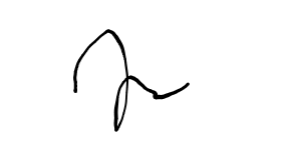
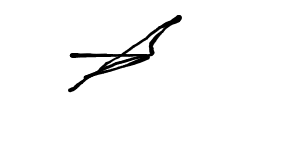
Ajustes Pead Corr palntilla
Ajustes Pead Corr palntilla

Changed region(s): [[0.2165, 0.08, 0.6495, 0.88]]

diff --git a/MantenimientosPTM/Scripts/produccion_peadliso_refactor.js b/MantenimientosPTM/Scripts/produccion_peadliso_refactor.js
@@ -270,9 +270,9 @@ class GestionProduccionPeadLiso extends GestionProduccionBase {
                 id: item.ID_REGISTRO || Date.now(),
 
                 ID_REGISTRO: item.ID_REGISTRO,
-                OTMC: item.OTMC, // 🔥 NUEVO
-                OTMP: item.OTMP,// 🔥 NUEVO
-                ID_PRODUCTO_TERMINADO: item.ID_PRODUCTO_TERMINADO,// 🔥 NUEVO
+                OTMC: item.OTMC,
+                OTMP: item.OTMP,
+                ID_PRODUCTO_TERMINADO: item.ID_PRODUCTO_TERMINADO,
 
                 Mes: item.MES,
 
@@ -325,17 +325,33 @@ class GestionProduccionPeadLiso extends GestionProduccionBase {
 
                 TiempoDisponible: item.TIEMPO_DISPONIBLE,
 
-                TiempoProductivo: item.TIEMPO_PRODUCTIVO
+                TiempoProductivo: item.TIEMPO_PRODUCTIVO,
+
+                // ✅ NUEVO: Identificar origen de datos de BD
+                ...(item.OTMC && item.OTMC.toString().trim() !== '' ? {
+                    _origen: 'CORRECTIVO',
+                    _marcador: '🔧',
+                    _rowClass: 'row-correctivo'
+                } : item.OTMP && item.OTMP.toString().trim() !== '' ? {
+                    _origen: 'PREVENTIVO',
+                    _marcador: '🛠',
+                    _rowClass: 'row-preventivo'
+                } : item.ID_PRODUCTO_TERMINADO && item.ID_PRODUCTO_TERMINADO.toString().trim() !== '' ? {
+                    _origen: 'PRODUCTO_TERMINADO',
+                    _marcador: '📦',
+                    _rowClass: 'row-producto-terminado'
+                } : {})
 
             }));
 
             this.gridApi.setRowData(datosFormateados);
-            return true; // 🔥 sí había datos
+            this.inicializarTooltipsGrid(); // 🔥 AGREGAR ESTA LÍNEA
+            return true;
 
         }
 
         this.gridApi.setRowData([]);
-        return false; // 🔥 NUEVO — ya no llama agregarFilaTotales aquí
+        return false;
     }
 
     // ========================================
@@ -415,7 +431,12 @@ class GestionProduccionPeadLiso extends GestionProduccionBase {
             nuevaFila.id = this.generarIdTemporal();
             nuevaFila.OTMC = item.NumeroOrden;
             nuevaFila.Fecha = this.parsearFechaCorrectivo(item.FechaCreacion);
-            nuevaFila.TiempoMuertoCorrectivos = parseFloat(item.DuracionHrs) || 0; // 🔥 campo distinto a PVC
+            nuevaFila.TiempoMuertoCorrectivos = parseFloat(item.DuracionHrs) || 0;
+
+            // ✅ NUEVO: Marcar como correctivo
+            nuevaFila._origen = 'CORRECTIVO';
+            nuevaFila._marcador = '🔧';
+            nuevaFila._rowClass = 'row-correctivo';
 
             const lineaEncontrada = this.listaLineas.find(
                 l => String(l.value) === String(item.IdLineaProduccion)
@@ -439,8 +460,7 @@ class GestionProduccionPeadLiso extends GestionProduccionBase {
         });
 
         this.gridApi.applyTransaction({ add: filasNuevas });
-        this.inicializarTooltipsGrid(); // 🔥 AGREGAR ESTA LÍNEA
-
+        this.inicializarTooltipsGrid();
 
         if (lineasNoEncontradas.length > 0) {
             AlertManager.mostrar(
@@ -535,6 +555,7 @@ class GestionProduccionPeadLiso extends GestionProduccionBase {
                         cellClass: 'celda-gris',
                         pinned: 'left',
                         // ✅ NUEVO: Renderer para mostrar emoji + mes + tooltip + punto pulsante
+                        // En el cellRenderer del campo 'Mes' en inicializarGrid() de PEAD Liso
                         cellRenderer: params => {
                             if (!params.value || params.data?.id === 'TOTALES') {
                                 return params.value || '';
@@ -544,7 +565,6 @@ class GestionProduccionPeadLiso extends GestionProduccionBase {
                             const origen = params.data?._origen;
                             const idRegistro = params.data?.ID_REGISTRO;
 
-                            // 🔥 Mapa de tooltips según origen
                             const tooltipTexts = {
                                 'CORRECTIVO': 'Mantenimiento Correctivo',
                                 'PREVENTIVO': 'Mantenimiento Preventivo',
@@ -556,14 +576,14 @@ class GestionProduccionPeadLiso extends GestionProduccionBase {
                                 ? `data-bs-toggle="tooltip" data-bs-title="${tooltipText}" title="${tooltipText}"`
                                 : '';
 
-                            // 🔥 NUEVO: Mostrar punto pulsante si es un registro nuevo (sin ID_REGISTRO)
                             const puntoPulsante = !idRegistro && (origen === 'CORRECTIVO' || origen === 'PREVENTIVO' || origen === 'PRODUCTO_TERMINADO')
                                 ? `<span class="punto-pulso punto-pulso-margin-left"></span>`
                                 : '';
 
+                            // 🔥 IGUAL QUE PVC: sin emoji, devuelve solo el valor plano
                             return emoji
                                 ? `<div style="display: flex; align-items: center; gap: 4px;"><span style="font-size: 16px; cursor: help;" ${tooltipAttr}>${emoji}</span><span>${params.value}</span>${puntoPulsante}</div>`
-                                : `<div style="display: flex; align-items: center; gap: 4px;"><span>${params.value}</span>${puntoPulsante}</div>`;
+                                : params.value;
                         }
                     },
                     {
@@ -872,13 +892,21 @@ class GestionProduccionPeadLiso extends GestionProduccionBase {
                 sortable: true,
                 filter: true,
                 resizable: true,
+                // CORRECTO
                 editable: (params) => {
+                    if (params.data?.id === 'TOTALES') return false;
 
-                    if (params.data?.id === 'TOTALES') {
-                        return false;
-                    }
+                    const readonlyFields = [
+                        'PesoMinimo',
+                        'PesoEstandar',
+                        'PorcentajeSobrepeso',
+                        'PorcentajeTotalScrap',
+                        'TiempoDisponible',
+                        'TiempoProductivo',
+                        'Mes'
+                    ];
 
-                    return true;
+                    return !readonlyFields.includes(params.colDef.field);
                 },
                 wrapHeaderText: true,
                 autoHeaderHeight: true
@@ -905,6 +933,7 @@ class GestionProduccionPeadLiso extends GestionProduccionBase {
                 this.gridColumnApi = params.columnApi;
 
                 this.agregarFilaTotales();
+                this.inicializarTooltipsGrid(); // 🔥 AGREGAR
 
                 setTimeout(() => {
                     this.gridApi.sizeColumnsToFit();
@@ -925,6 +954,11 @@ class GestionProduccionPeadLiso extends GestionProduccionBase {
 
                 }
 
+            },
+            getRowClass: params => {
+                if (params.data?.id === 'TOTALES') return '';
+                if (params.data?._rowClass) return params.data._rowClass;
+                return '';
             }
 
         };
@@ -960,7 +994,7 @@ class GestionProduccionPeadLiso extends GestionProduccionBase {
             nuevaFila.id = this.generarIdTemporal();
             nuevaFila.OTMP = item.NumeroOrden;
             nuevaFila.Fecha = this.parsearFechaPreventivo(item.FechaInicioMantenimiento);
-            nuevaFila.Preventivo = parseFloat(item.DuracionHrs) || 0; // 🔥 Campo específico PEAD LISO
+            nuevaFila.Preventivo = parseFloat(item.DuracionHrs) || 0;
 
             // ✅ NUEVO: Marcar como preventivo
             nuevaFila._origen = 'PREVENTIVO';
@@ -989,8 +1023,7 @@ class GestionProduccionPeadLiso extends GestionProduccionBase {
         });
 
         this.gridApi.applyTransaction({ add: filasNuevas });
-        this.inicializarTooltipsGrid(); // 🔥 AGREGAR ESTA LÍNEA
-
+        this.inicializarTooltipsGrid();
 
         if (lineasNoEncontradas.length > 0) {
             AlertManager.mostrar(
@@ -1101,7 +1134,6 @@ class GestionProduccionPeadLiso extends GestionProduccionBase {
                 return false;
             }
 
-            // 🔥 Anti-duplicados: igual que OTMC pero con ID_PRODUCTO_TERMINADO
             const idsYaEnGrid = new Set();
 
             this.gridApi.forEachNode(node => {
@@ -1115,14 +1147,14 @@ class GestionProduccionPeadLiso extends GestionProduccionBase {
             );
 
             if (productosNuevos.length === 0) {
-                return false; // ya están todos en el grid
+                return false;
             }
 
             const filasNuevas = [];
             const lineasNoEncontradas = [];
             let filasAgregadas = 0;
 
-            productosNuevos.forEach(item => {  // 🔥 iterar sobre productosNuevos, no productosTerminados
+            productosNuevos.forEach(item => {
 
                 const fecha = this.parsearFechaProductoTerminado(item.FechaPesaje);
                 if (!fecha) {
@@ -1142,11 +1174,12 @@ class GestionProduccionPeadLiso extends GestionProduccionBase {
                 nuevaFila.Fecha = fecha;
                 nuevaFila.Producto = item.Codigo || '';
                 nuevaFila.Turno = String(item.Turno || '') || '';
-                nuevaFila.TRLiberados = parseFloat(item.NumTubos) || 0; // 🔥 Campo específico PEAD LISO
-                nuevaFila.ProduccionNeta = parseFloat(item.PesoTotal) || 0; // 🔥 Campo específico PEAD LISO
-                nuevaFila.PorcentajeTotalScrap = parseFloat(item.ScrapPt) || 0; // 🔥 Campo específico PEAD LISO
-                nuevaFila.TotalScrap = parseFloat(item.ScrapTotal) || 0; // 🔥 Campo específico PEAD LISO
+                nuevaFila.TRLiberados = parseFloat(item.NumTubos) || 0;
+                nuevaFila.ProduccionNeta = parseFloat(item.PesoTotal) || 0;
+                nuevaFila.PorcentajeTotalScrap = parseFloat(item.ScrapPt) || 0;
+                nuevaFila.TotalScrap = parseFloat(item.ScrapTotal) || 0;
 
+                // ✅ NUEVO: Marcar como producto terminado
                 nuevaFila._origen = 'PRODUCTO_TERMINADO';
                 nuevaFila._marcador = '📦';
                 nuevaFila._rowClass = 'row-producto-terminado';
@@ -1175,7 +1208,7 @@ class GestionProduccionPeadLiso extends GestionProduccionBase {
 
             if (filasNuevas.length > 0) {
                 this.gridApi.applyTransaction({ add: filasNuevas });
-                this.inicializarTooltipsGrid(); // 🔥 AGREGAR ESTA LÍNEA
+                this.inicializarTooltipsGrid();
                 console.log(`✅ Se agregaron ${filasNuevas.length} productos terminados al grid`);
             }
 
@@ -1850,7 +1883,8 @@ class GestionProduccionPeadLiso extends GestionProduccionBase {
 
                 ID_REGISTRO: fila.ID_REGISTRO || null,
                 OTMC: fila.OTMC ?? null,
-
+                OTMP: fila.OTMP ?? null,                        // 🔥 AGREGAR
+                ID_PRODUCTO_TERMINADO: fila.ID_PRODUCTO_TERMINADO || null,  // 🔥 AGREGAR
                 MES: fila.Mes,
                 FECHA: fila.Fecha,
                 LINEA: fila.Linea,

diff --git a/MantenimientosPTM/Scripts/produccion_corrugado_refactor.js b/MantenimientosPTM/Scripts/produccion_corrugado_refactor.js
@@ -124,7 +124,7 @@ class GestionProduccionCorrugado extends GestionProduccionBase {
                         field: 'Mes',
                         headerName: 'Mes',
                         editable: false,
-                        width: 110,
+                        width: 150,
                         pinned: 'left',
                         cellClass: 'celda-gris',
                         // ✅ NUEVO: Renderer para mostrar emoji + mes + tooltip + punto pulsante
@@ -2365,7 +2365,8 @@ class GestionProduccionCorrugado extends GestionProduccionBase {
 
                     ID_REGISTRO: node.data.ID_REGISTRO || null,
                     OTMC: node.data.OTMC || null, // 🔥 NUEVO
-
+                    OTMP: node.data.OTMP || null,                          // 🔥 AGREGAR
+                    ID_PRODUCTO_TERMINADO: node.data.ID_PRODUCTO_TERMINADO || null, // 🔥 AGREGAR
                     MES: node.data.Mes,
                     FECHA: node.data.Fecha,
                     LINEA: node.data.Linea,

diff --git a/MantenimientosPTM/Models/AccesoDatos/AccesoDatosProduccion.cs b/MantenimientosPTM/Models/AccesoDatos/AccesoDatosProduccion.cs
@@ -373,6 +373,15 @@ namespace MantenimientosPTM
             [JsonProperty(DefaultValueHandling = DefaultValueHandling.Populate)]
             [DefaultValue("")]
             public string OTMC { get; set; }
+            // 🔥 NUEVO
+            [JsonProperty(DefaultValueHandling = DefaultValueHandling.Populate)]
+            [DefaultValue("")]
+            public string OTMP { get; set; }
+
+            // 🔥 NUEVO
+            [JsonProperty(DefaultValueHandling = DefaultValueHandling.Populate)]
+            [DefaultValue("")]
+            public string ID_PRODUCTO_TERMINADO { get; set; }
 
             [JsonProperty(DefaultValueHandling = DefaultValueHandling.Populate)]
             [DefaultValue("")]
@@ -543,6 +552,15 @@ namespace MantenimientosPTM
             [JsonProperty(DefaultValueHandling = DefaultValueHandling.Populate)]
             [DefaultValue("")]
             public string OTMC { get; set; }
+            // 🔥 NUEVO
+            [JsonProperty(DefaultValueHandling = DefaultValueHandling.Populate)]
+            [DefaultValue("")]
+            public string OTMP { get; set; }
+
+            // 🔥 NUEVO
+            [JsonProperty(DefaultValueHandling = DefaultValueHandling.Populate)]
+            [DefaultValue("")]
+            public string ID_PRODUCTO_TERMINADO { get; set; }
 
             // ============================================
             // GENERALES

diff --git a/MantenimientosPTM/Controllers/MantenimientosCorrectivosController.cs b/MantenimientosPTM/Controllers/MantenimientosCorrectivosController.cs
@@ -780,7 +780,7 @@ namespace MantenimientosPTM.Controllers
         }
 
         [HttpGet]
-        public JsonResult BuscarEmpleados(int? planta, string query)
+        public JsonResult BuscarEmpleados(int? planta, string query, string usuarioWeb, string tipoUsuario)
         {
             try
             {
@@ -794,7 +794,9 @@ namespace MantenimientosPTM.Controllers
                 var parameters = new Dictionary<string, (object value, ParameterDirection direction, HanaDbType type)>
                 {
                     { "P_QUERY", (query, ParameterDirection.Input, HanaDbType.NVarChar) },
-                    { "P_PLANTA", (planta, ParameterDirection.Input, HanaDbType.Integer) }
+                    { "P_PLANTA", (planta, ParameterDirection.Input, HanaDbType.Integer) },
+                    { "P_USUARIOWEB", (usuarioWeb, ParameterDirection.Input, HanaDbType.NVarChar) },
+                    { "P_TIPOUSUARIO", (tipoUsuario, ParameterDirection.Input, HanaDbType.NVarChar) }
                 };
 
                 // ✅ Ejecutar el Stored Procedure
